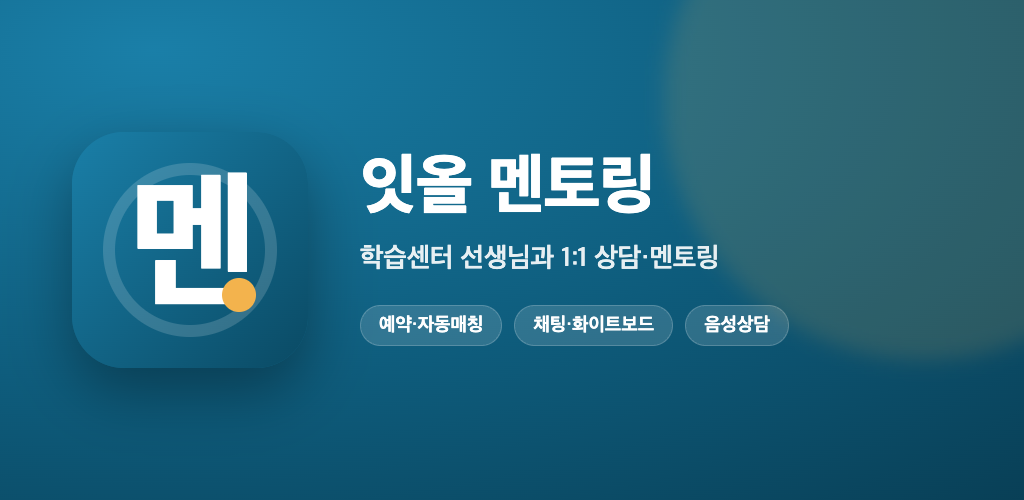
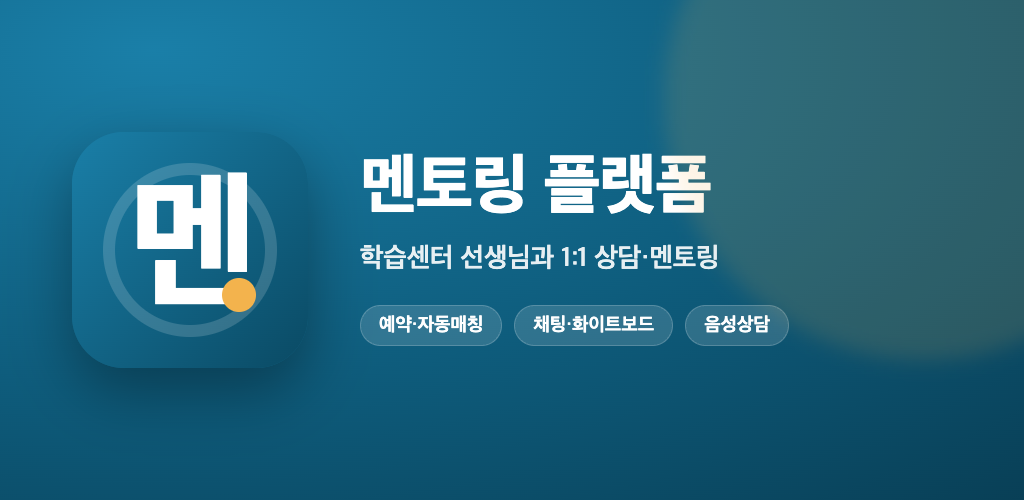
chore: 브랜드 '잇올' 전면 미지정 처리(다른 사업자 대비)
제품 리포지토리에서 브랜드명 '잇올'을 모두 제거·중립화.

- 한글 '잇올' 22곳 → 문맥별 중립어: 제품명 '멘토링 플랫폼', 더미 센터명
  '잇올 ' 제거, 법률 회사명 '잇올(주)' → '○○(주)'(미지정, 실상호 교체).
- 스토어 브랜드 식별자(미지정 플레이스홀더): app.json slug
  mentoring-platform, scheme mentoring, bundleId/package com.example.mentoring
  (+ 문서·listing 반영). 로컬 터널 plist 이름도 중립화.
- 피처 그래픽 이미지 '멘토링 플랫폼'으로 재생성.

내부 기술 식별자(@itall npm scope, itall_access/refresh 저장키, itall-jwt
개발 시크릿, docker/폴더명)는 브랜드 비노출·변경 광범위로 유지(운영사 확정 시
별도 처리 권장). 상위 폴더 설계·스펙 문서(리포 밖)의 '잇올'은 미변경.

타입체크·단위 110/110·mobile config·web export 정상, legal 엔드포인트
'○○(주)·멘토링 플랫폼' 확인.

Claude-Session: https://claude.ai/code/session_01XFBaeSCznsJaNe9q86v8DG

Changed region(s): [[0.3438, 0.3, 0.7188, 0.45]]

diff --git a/apps/api/src/modules/legal/legal.content.ts b/apps/api/src/modules/legal/legal.content.ts
@@ -9,7 +9,7 @@ export const PRIVACY_VERSION = '1.1';
 export const LEGAL_UPDATED = '2026-07-04';
 
 // 실제 배포 전 확정할 자리표시자
-const COMPANY = '잇올(주)'; // 실제 상호로 교체
+const COMPANY = '○○(주)'; // 실제 상호로 교체
 const CONTACT_EMAIL = 'privacy@REPLACE'; // 개인정보 보호책임자 연락처로 교체
 
 export const TERMS_DOC = {
@@ -17,7 +17,7 @@ export const TERMS_DOC = {
   updatedAt: LEGAL_UPDATED,
   title: '이용약관',
   sections: [
-    { h: '제1조 (목적)', b: `본 약관은 ${COMPANY}(이하 "회사")가 제공하는 잇올 멘토링 서비스(이하 "서비스")의 이용 조건 및 절차, 회사와 회원 간의 권리·의무 및 책임사항을 규정함을 목적으로 합니다.` },
+    { h: '제1조 (목적)', b: `본 약관은 ${COMPANY}(이하 "회사")가 제공하는 멘토링 플랫폼 서비스(이하 "서비스")의 이용 조건 및 절차, 회사와 회원 간의 권리·의무 및 책임사항을 규정함을 목적으로 합니다.` },
     { h: '제2조 (용어의 정의)', b: '"회원"이란 서비스에 가입하여 이용하는 학생·학부모·선생님·센터관리자를 말합니다. "크레딧"이란 상담·질문 이용을 위한 서비스 내 결제 수단이며, 현금 환급 대상이 아닙니다(구매분의 청약철회는 관련 법령에 따릅니다).' },
     { h: '제3조 (계정과 가입)', b: '회원은 정확한 정보로 가입하여야 하며, 계정 정보의 관리 책임은 회원에게 있습니다. 만 14세 미만은 법정대리인(보호자)의 동의를 받아 가입·이용하여야 합니다.' },
     { h: '제4조 (상담 예약·진행)', b: '회원은 선생님 근무시간 내에서 상담을 예약하며, 상담은 채팅·화이트보드·음성통화·오프라인 등 제공되는 방식으로 진행됩니다. 각 세션의 앞뒤로 휴게 시간이 적용될 수 있습니다.' },
@@ -36,7 +36,7 @@ export const PRIVACY_DOC = {
   updatedAt: LEGAL_UPDATED,
   title: '개인정보처리방침',
   sections: [
-    { h: '1. 총칙', b: `${COMPANY}(이하 "회사")는 이용자의 개인정보를 중요시하며 개인정보 보호법 등 관련 법령을 준수합니다. 본 방침은 잇올 멘토링 앱·웹 서비스에 적용됩니다.` },
+    { h: '1. 총칙', b: `${COMPANY}(이하 "회사")는 이용자의 개인정보를 중요시하며 개인정보 보호법 등 관련 법령을 준수합니다. 본 방침은 멘토링 플랫폼 앱·웹 서비스에 적용됩니다.` },
     { h: '2. 수집하는 개인정보 항목', b: '(필수) 이름, 로그인 아이디·비밀번호, 연락처(이메일·전화), 소속 센터, 학년/역할. (서비스 이용) 상담·질문 내역, 채팅 메시지, 첨부 사진·파일, 화이트보드 이미지, 음성통화 연결정보, 상담 기록, 성적 정보. (결제) 크레딧·결제 내역. (자동수집) 기기정보, 푸시 알림 토큰, 접속 로그·IP. 만 14세 미만은 법정대리인 성명·연락처를 추가 수집합니다.' },
     { h: '3. 기기 권한', b: '카메라(문제 촬영·화이트보드 배경), 마이크(음성통화), 사진 라이브러리(첨부), 알림(상담·질문 푸시)을 사용합니다. 권한은 거부할 수 있으며, 거부 시 해당 기능만 제한되고 서비스 이용은 가능합니다.' },
     { h: '4. 수집·이용 목적', b: '회원 식별·인증, 상담 매칭·예약·진행, 크레딧 정산·결제, 상담 기록 제공(공개 범위 한정), 알림 발송, 신고·분쟁 처리, 부정이용 방지, 서비스 개선 및 통계에 이용합니다.' },

diff --git a/apps/api/src/modules/storage/providers/local-disk-storage.provider.spec.ts b/apps/api/src/modules/storage/providers/local-disk-storage.provider.spec.ts
@@ -12,7 +12,7 @@ describe('LocalDiskStorageProvider (§10)', () => {
   });
 
   it('put → get 라운드트립(바이트 동일)', async () => {
-    const data = Buffer.from('잇올 멘토링 첨부 테스트 🎓', 'utf8');
+    const data = Buffer.from('멘토링 플랫폼 첨부 테스트 🎓', 'utf8');
     await sut.put({ key: 'uploads/abc.txt', data, contentType: 'text/plain' });
     const read = await sut.get('uploads/abc.txt');
     expect(read.equals(data)).toBe(true);

diff --git a/apps/api/prisma/seed.ts b/apps/api/prisma/seed.ts
@@ -64,7 +64,7 @@ async function main() {
     await client.query(
       `INSERT INTO center (id, name, region) VALUES ($1,$2,$3)
        ON CONFLICT (id) DO NOTHING`,
-      [ID.center, '잇올 강남센터(더미)', '서울'],
+      [ID.center, '강남센터(더미)', '서울'],
     );
 
     // 2) 회원 등급 4단계 (주간 부여 크레딧)

diff --git a/docs/앱_스토어_등록_준비.md b/docs/앱_스토어_등록_준비.md
@@ -1,6 +1,6 @@
 # 앱 스토어 등록 준비 (iOS App Store · Google Play)
 
-> 잇올 멘토링 모바일(Expo SDK 51 / RN 0.74) 스토어 출시 준비 문서.
+> 멘토링 플랫폼 모바일(Expo SDK 51 / RN 0.74) 스토어 출시 준비 문서.
 > 최종 갱신: 2026-07-03
 
 ## 0. 핵심 판단 — 웹 우선(현재) vs 네이티브
@@ -28,7 +28,7 @@
 
 ## 2. 준비 완료
 
-- ✅ `app.json` — name `잇올 멘토링`, version `1.0.0`, bundleId/package `com.itall.mentoring`
+- ✅ `app.json` — name `멘토링 플랫폼`, version `1.0.0`, bundleId/package `com.example.mentoring`
 - ✅ 브랜드 아이콘/스플래시 — `assets/icon.png`(1024)·`adaptive-icon.png`·`splash-icon.png`·`notification-icon.png`
 - ✅ 권한 선언 — iOS `NSCamera/Microphone/PhotoLibraryUsageDescription`, Android `CAMERA·RECORD_AUDIO·POST_NOTIFICATIONS`
 - ✅ `eas.json` — development/preview/production 빌드 + submit 프로파일
@@ -54,7 +54,7 @@
 
 ### Apple App Store
 - Apple Developer Program 가입(연 $99)
-- App Store Connect 앱 생성(bundleId `com.itall.mentoring`)
+- App Store Connect 앱 생성(bundleId `com.example.mentoring`)
 - 스크린샷: 6.7"(1290×2796) 필수 + iPad 12.9"(2048×2732, supportsTablet=true)
 - App Privacy(수집 데이터 명시): 연락처·사용자콘텐츠(사진·메시지)·식별자·이용데이터
 - **App Tracking Transparency**: 추적 없음(광고SDK 미사용) → 미해당
@@ -72,7 +72,7 @@
 
 ## 5. 스토어 리스팅 메타데이터 (초안·KR)
 
-- **앱 이름**: 잇올 멘토링
+- **앱 이름**: 멘토링 플랫폼
 - **부제(30자)**: 1:1 입시 상담·멘토링 예약
 - **카테고리**: 교육
 - **간단 설명(80자)**: 학습센터 선생님과 1:1 상담을 예약하고 채팅·화이트보드·음성으로 진행하세요.

diff --git a/ops/README.md b/ops/README.md
@@ -32,13 +32,13 @@ RESTORE_DB=itall_restore_test ./ops/restore-db.sh <최신백업> --yes
 ```
 
 ## 데모 터널 재부팅 자동시작 (선택)
-현재 터널 감시자는 `~/itall-tunnels/run.sh`(nohup)로 떠 있어 세션을 닫아도 유지되지만
+현재 터널 감시자는 `~/mentoring-tunnels/run.sh`(nohup)로 떠 있어 세션을 닫아도 유지되지만
 **컴퓨터를 재부팅하면 멈춥니다.** 재부팅에도 자동 시작하려면 LaunchAgent 등록:
 ```bash
 # 홈 경로 치환 후 설치
-sed "s#REPLACE_HOME#$HOME#g" ~/itall-tunnels/com.itall.tunnels.plist > ~/Library/LaunchAgents/com.itall.tunnels.plist
-launchctl load ~/Library/LaunchAgents/com.itall.tunnels.plist
+sed "s#REPLACE_HOME#$HOME#g" ~/mentoring-tunnels/com.mentoring.tunnels.plist > ~/Library/LaunchAgents/com.mentoring.tunnels.plist
+launchctl load ~/Library/LaunchAgents/com.mentoring.tunnels.plist
 ```
 - run.sh 에 단일 인스턴스 가드가 있어, 이미 감시자가 돌고 있으면 중복 실행되지 않습니다(현재 터널 URL 보존).
-- 재부팅 후 새 터널이 뜨면 URL 이 바뀌며, `~/itall-tunnels/links.sh` 로 최신 링크를 확인합니다.
-- 해제: `launchctl unload ~/Library/LaunchAgents/com.itall.tunnels.plist`
+- 재부팅 후 새 터널이 뜨면 URL 이 바뀌며, `~/mentoring-tunnels/links.sh` 로 최신 링크를 확인합니다.
+- 해제: `launchctl unload ~/Library/LaunchAgents/com.mentoring.tunnels.plist`

diff --git a/apps/mobile/store/listing.md b/apps/mobile/store/listing.md
@@ -3,8 +3,8 @@
 > 제출용 텍스트. `REPLACE`는 실계정·실주소로 교체.
 
 ## 공통 식별
-- 앱 이름: **잇올 멘토링**
-- 번들ID/패키지: `com.itall.mentoring`
+- 앱 이름: **멘토링 플랫폼**
+- 번들ID/패키지: `com.example.mentoring`
 - 카테고리: 교육 (Education)
 - 지원 URL: `https://REPLACE/support` · 지원 이메일: `support@REPLACE`
 - 개인정보처리방침: `https://REPLACE/privacy`  (앱 내 `약관·개인정보` 내용 게시)
@@ -16,7 +16,7 @@
 - **키워드(100자)**: 상담,멘토링,과외,입시,학원,예약,튜터,화이트보드,첨삭,내신,수능
 - **설명(Description)**:
   ```
-  잇올 멘토링은 학습센터 선생님과 학생을 잇는 1:1 상담·멘토링 앱입니다.
+  멘토링 플랫폼은 학습센터 선생님과 학생을 잇는 1:1 상담·멘토링 앱입니다.
 
   ■ 예약과 매칭
   - 담임·교과·입시·심리 유형별 상담 예약

diff --git a/apps/mobile/NATIVE.md b/apps/mobile/NATIVE.md
@@ -4,7 +4,7 @@
 경로를 위한 스캐폴딩과 절차를 정리합니다. 실제 빌드·제출에는 아래 **외부 계정**이 필요합니다.
 
 ## 준비된 것 (이 커밋)
-- `app.json`: iOS `bundleIdentifier`(com.itall.mentoring)·Android `package`, 알림 설정,
+- `app.json`: iOS `bundleIdentifier`(com.example.mentoring)·Android `package`, 알림 설정,
   `expo-notifications` 플러그인, `scheme`, `runtimeVersion`, `extra.eas.projectId` 자리표시자.
 - `eas.json`: `development`/`preview`/`production` 빌드 프로파일 + `submit` 설정(자리표시자).
 - `expo-notifications`·`expo-device` 의존성 + `src/push.ts` 네이티브 푸시 등록

diff --git a/로컬_시험구동_가이드.md b/로컬_시험구동_가이드.md
@@ -1,4 +1,4 @@
-# 잇올 멘토링 — 계정·구독 없이 로컬 시험구동 가이드
+# 멘토링 플랫폼 — 계정·구독 없이 로컬 시험구동 가이드
 
 > 목적: **외부 결제/알림톡/줌/클라우드 계정 없이**, 보유 기기(Mac mini·Windows PC·Galaxy S23 Ultra·iPad mini)에서
 > 실제로 구동·검증할 수 있는 영역을 정리. 아래 ✅ 표시는 **이 문서 작성 시 라이브 호출로 직접 확인**한 항목.

diff --git a/DEPLOY.md b/DEPLOY.md
@@ -1,4 +1,4 @@
-# 잇올 멘토링 — 실행/배포 (기능 연동 검증)
+# 멘토링 플랫폼 — 실행/배포 (기능 연동 검증)
 
 세 가지 형태로 제공합니다. 데이터는 더미(시뮬레이션 86명)이며 공유 안전합니다.
 **공통 비밀번호:** 시뮬 계정 `Itall-2026!` · 기본 더미(student01 등) `dev-password!`

diff --git a/README.md b/README.md
@@ -1,4 +1,4 @@
-# 잇올 1:1 멘토링 플랫폼 — 모노레포
+# 1:1 멘토링 플랫폼 — 모노레포
 
 설계·도메인 규칙의 단일 기준은 상위 폴더의 `CLAUDE.md` 및 산출물(`통합스펙`, `ERD-API`, `DB_스키마`, `openapi.yaml`)입니다.
 이 레포는 **Phase 0 스캐폴딩** 결과물입니다.

diff --git a/시뮬레이션_계정_안내.md b/시뮬레이션_계정_안내.md
@@ -1,4 +1,4 @@
-# 잇올 멘토링 — 시뮬레이션 계정 & 로컬 체험 안내
+# 멘토링 플랫폼 — 시뮬레이션 계정 & 로컬 체험 안내
 
 > 가상 인물 86명(마스터1·본사2·센터관리자3·선생님10·학생40·학부모30) 등록 완료.
 > **공통 비밀번호: `Itall-2026!`**

diff --git a/apps/mobile/README.md b/apps/mobile/README.md
@@ -1,4 +1,4 @@
-# 잇올 멘토링 — 모바일 (학생·학부모)
+# 멘토링 플랫폼 — 모바일 (학생·학부모)
 
 Expo SDK 51 + React Native + TypeScript. 학생/학부모 역할을 `/me`로 판별해 화면을 분기합니다.
 
